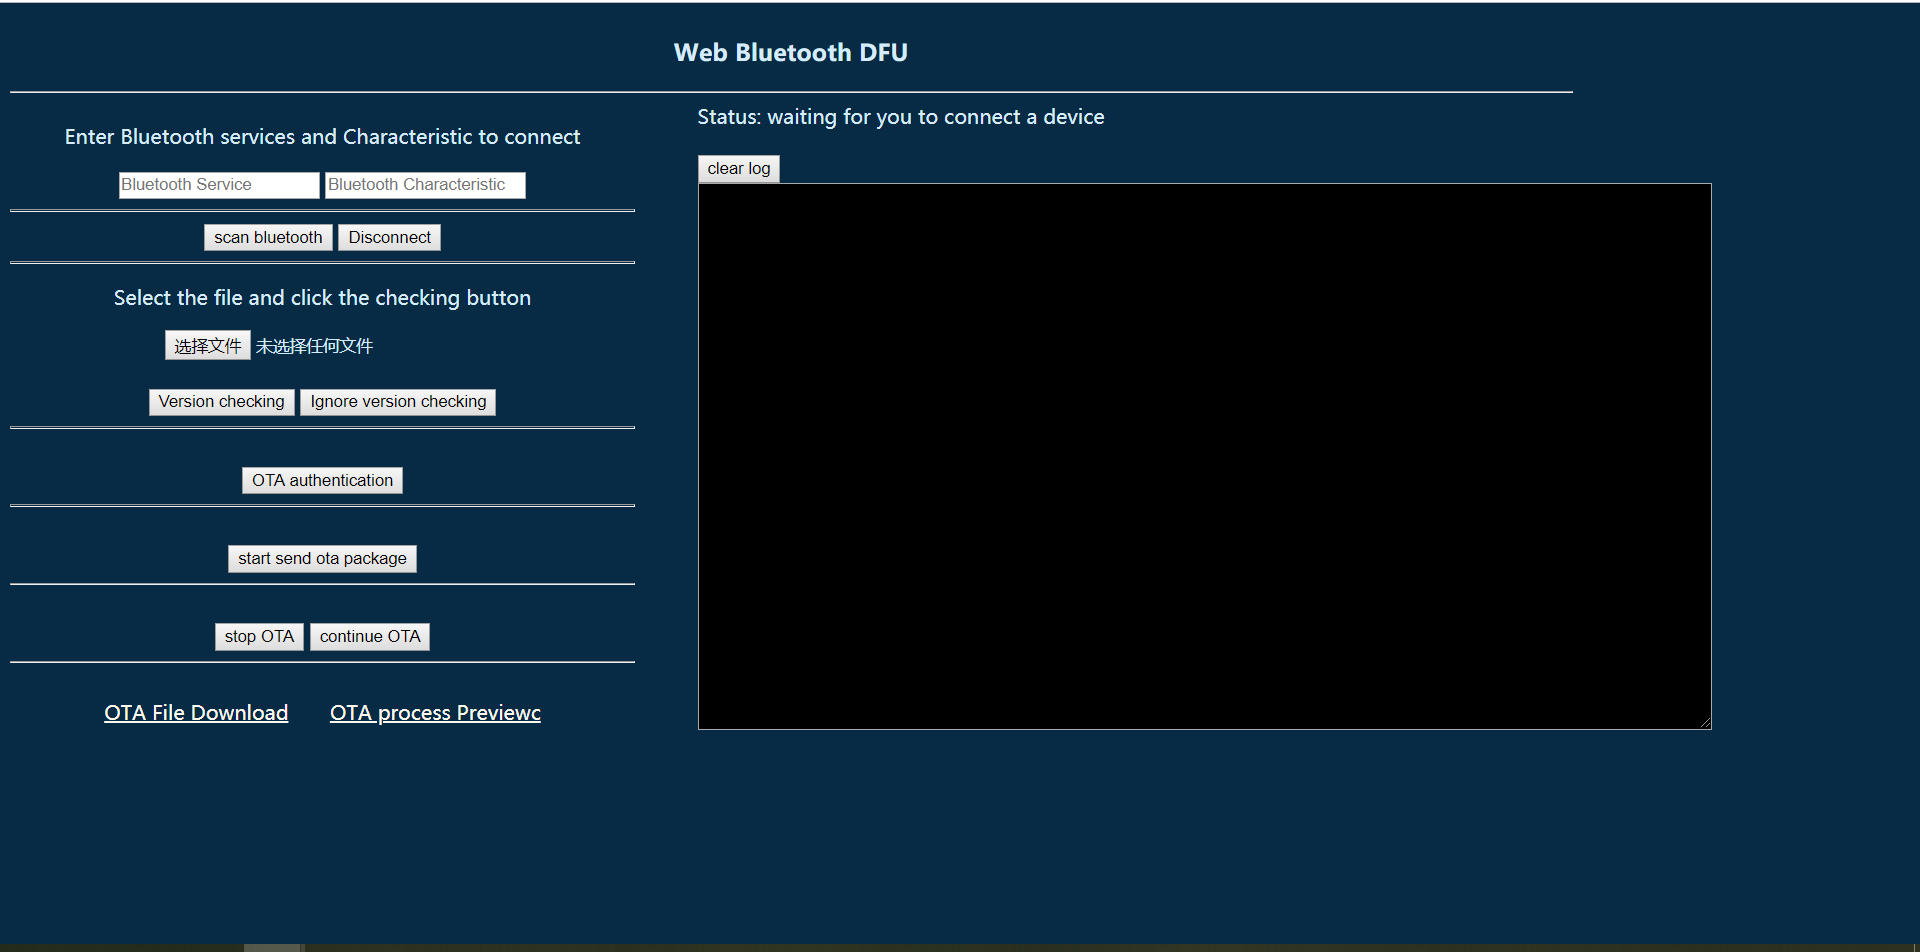
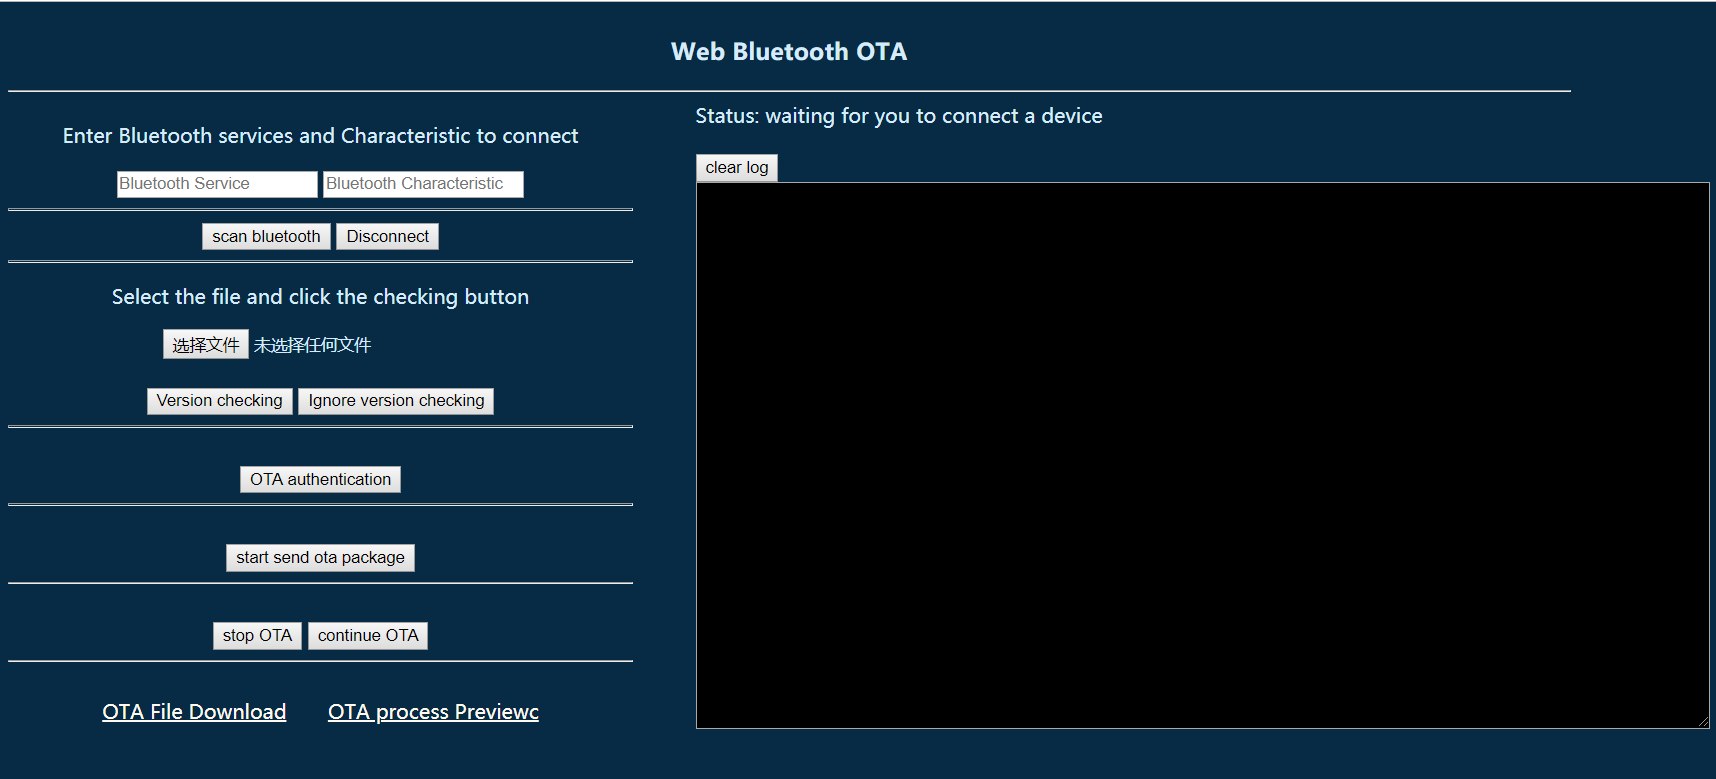
update reame.md file

diff --git a/readme.md b/readme.md
@@ -1,4 +1,4 @@
-# web bluetooth DFU
+# web bluetooth OTA
 
 - [web bluetooth](https://webbluetoothcg.github.io/web-bluetooth/)
 - [web bluetooth samples](https://googlechrome.github.io/samples/web-bluetooth/index.html)
@@ -14,13 +14,18 @@
 2. 有ota的bin文件
 3. 通电启动的telink开发板
 
+[OTA file download](http://wiki.telink-semi.cn/web_bluetooth_DFU/OTA_file.rar)
+[OTA process Previewc](http://wiki.telink-semi.cn/web_bluetooth_DFU/ota_spec.svg)
+
+可下载ota文件来跟随以下步骤测试，熟悉器其功能。
+
 ### 使用
 
 **请使用 `Chrome 45+` 浏览器打开(目前chrome对于web bluetooth支持较好)**
 
 [https://zhanenkui.github.io/telink_DFU.github.io/](https://zhanenkui.github.io/telink_DFU.github.io/)
 
-**访问以上连接，进入web blutooth DFU界面：**
+**访问以上连接，进入web blutooth OTA界面：**
 
 ![interface](image/interface.png)
 
